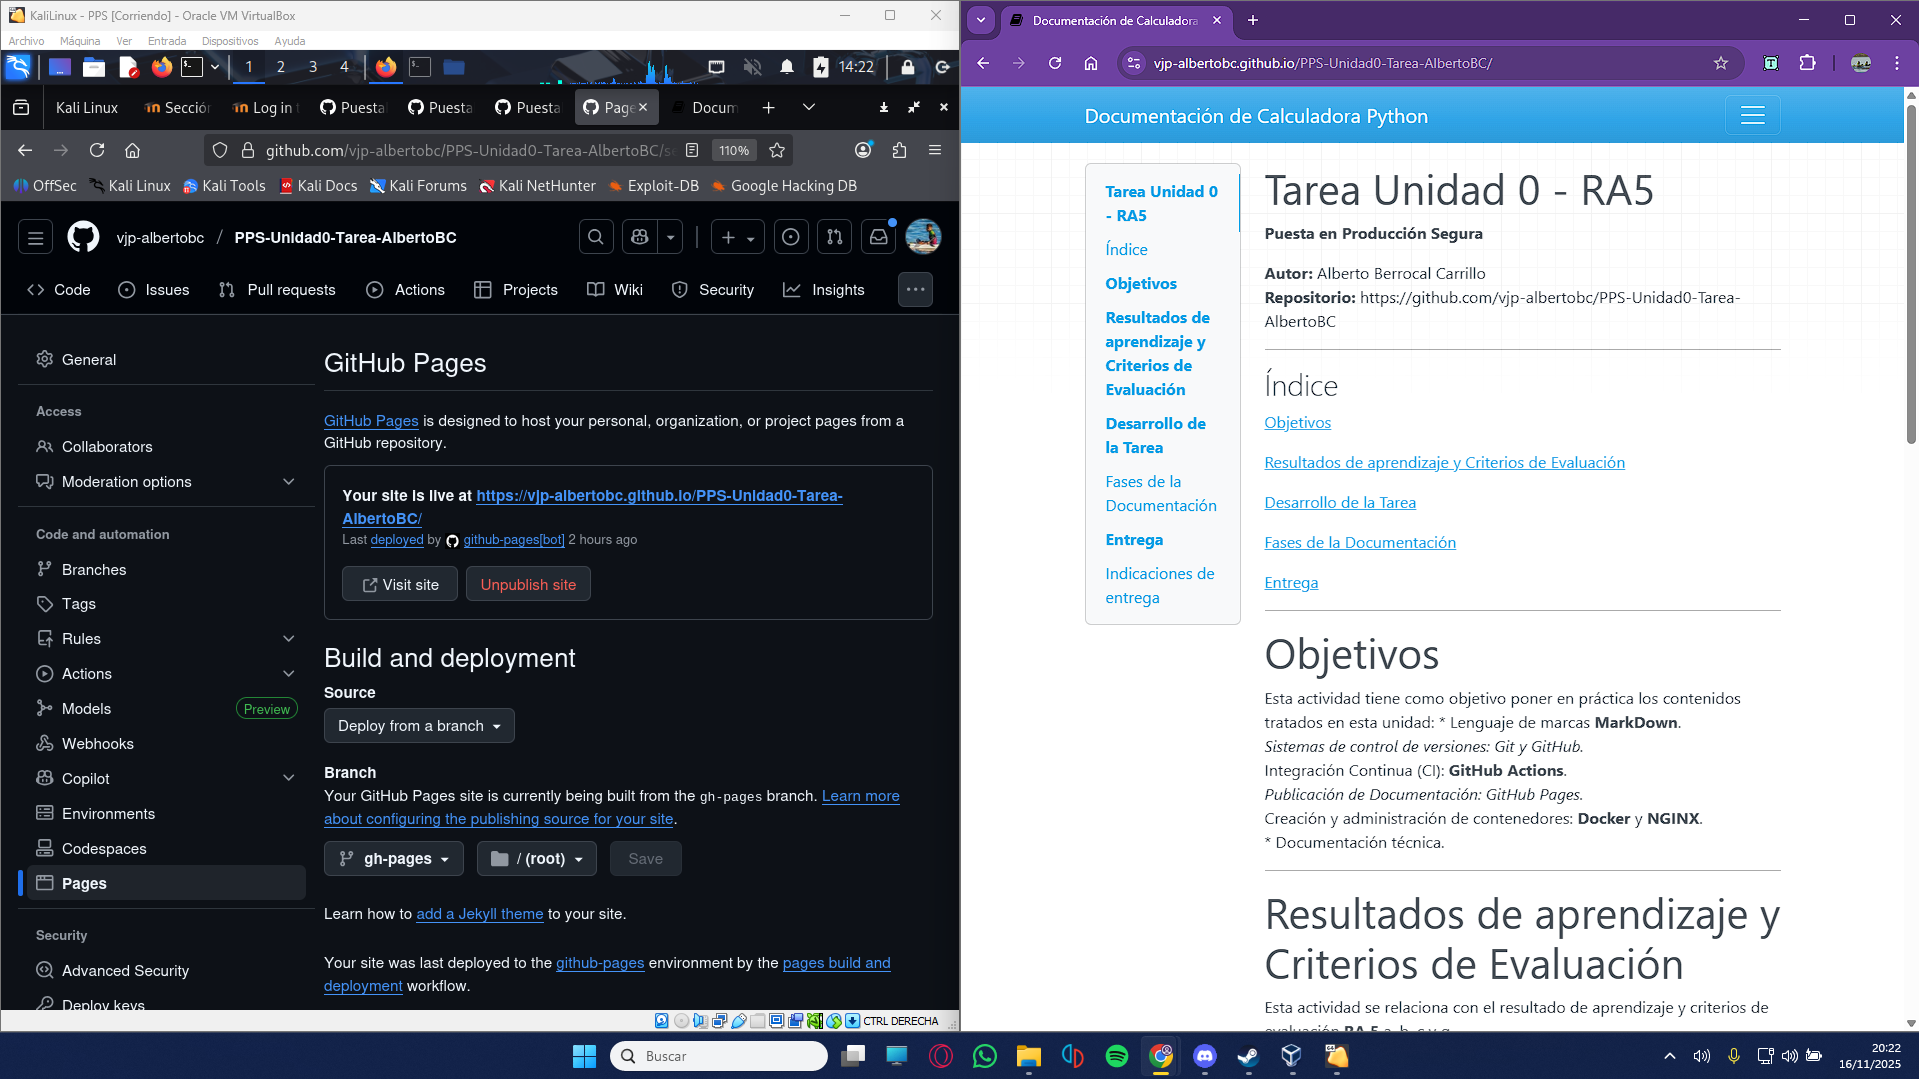
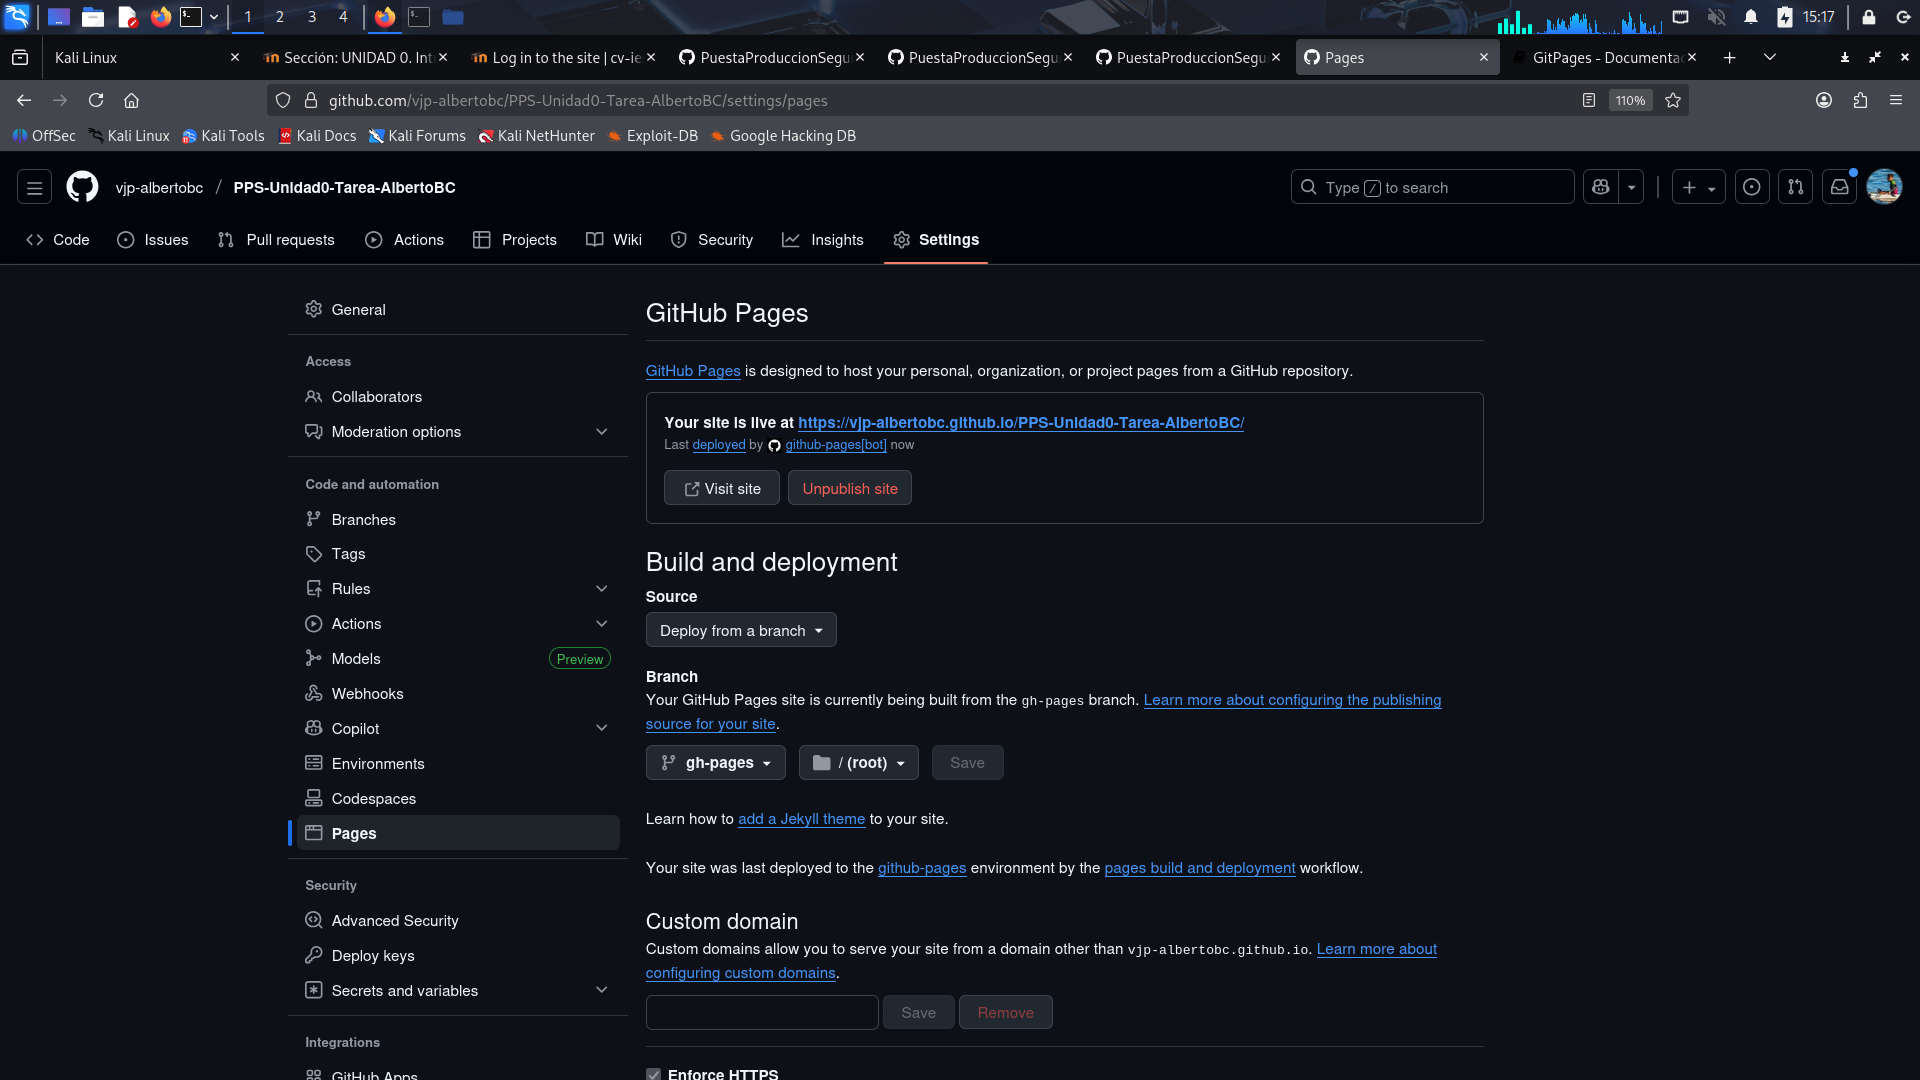
Creación gitpages.md

diff --git a/docs/gitPages.md b/docs/gitPages.md
@@ -1,0 +1,44 @@
+# 3.  Despliegue con GitHub Pages
+
+Este documento detalla el proceso para activar y configurar el servicio de **GitHub Pages**. Este paso es crucial para que la documentación generada automáticamente por el WorkFlow de MkDocs (alojada en la rama `gh-pages`) sea accesible a través de una URL pública.
+
+## 3.1. Configuración de la Fuente de Despliegue
+
+Tras la primera ejecución exitosa del WorkFlow de GitHub Actions (documentada en `gitActions.md`), la rama **`gh-pages`** ya existe en el repositorio con los archivos HTML generados. Ahora solo falta indicarle a GitHub que use esa rama para el despliegue.
+
+### Pasos:
+
+1.  Navegar en GitHub al repositorio y acceder a **Settings** (Configuración).
+2.  En el menú lateral, seleccionar la opción **Pages**.
+3.  En la sección **"Build and deployment"** (Compilación y despliegue), se debe verificar que:
+    * La opción **Source** esté establecida en **Deploy from a branch** (Desplegar desde una rama).
+    * En el desplegable de **Branch** (Rama), seleccionar la rama **`gh-pages`**.
+    * Asegurarse de que el directorio esté en la **raíz (/)**.
+4.  Pulsar el botón **Save** (Guardar).
+
+![Captura ventana Pages](files/captura_pages.png)
+
+## 3.2. Verificación del Despliegue
+
+Una vez guardada la configuración, GitHub Pages inicia el proceso de publicación. Esto puede tardar unos minutos.
+
+### Pasos:
+
+1.  Esperar a que GitHub Pages complete el despliegue. La página de **Settings > Pages** mostrará el mensaje "Your site is live at..." o similar, con la URL final.
+2.  Hacer clic en el enlace proporcionado para verificar que la documentación se visualiza correctamente y que el índice de navegación está operativo (gracias a `mkdocs.yml`).
+
+### URL Final de la Documentación
+
+La URL pública sigue el formato `https://[Tu_usuario_github].github.io/[Nombre_del_Repositorio]/`.
+
+![Captura ventana desplegada](files/captura_despliegue.png)
+
+## 3.3. Conclusión de CI/CD
+
+Con la configuración de GitHub Pages completada, se establece un ciclo completo de **Integración y Despliegue Continuo (CI/CD)**:
+
+1.  Se modifica un archivo Markdown en la carpeta **`docs/`** (o cualquier archivo en `main`).
+2.  Se realiza un **`git push origin main`**.
+3.  El WorkFlow de GitHub Actions se dispara (CI).
+4.  MkDocs genera el HTML y lo sube a la rama `gh-pages`.
+5.  GitHub Pages detecta el cambio en `gh-pages` y publica instantáneamente la nueva versión del sitio (CD).
